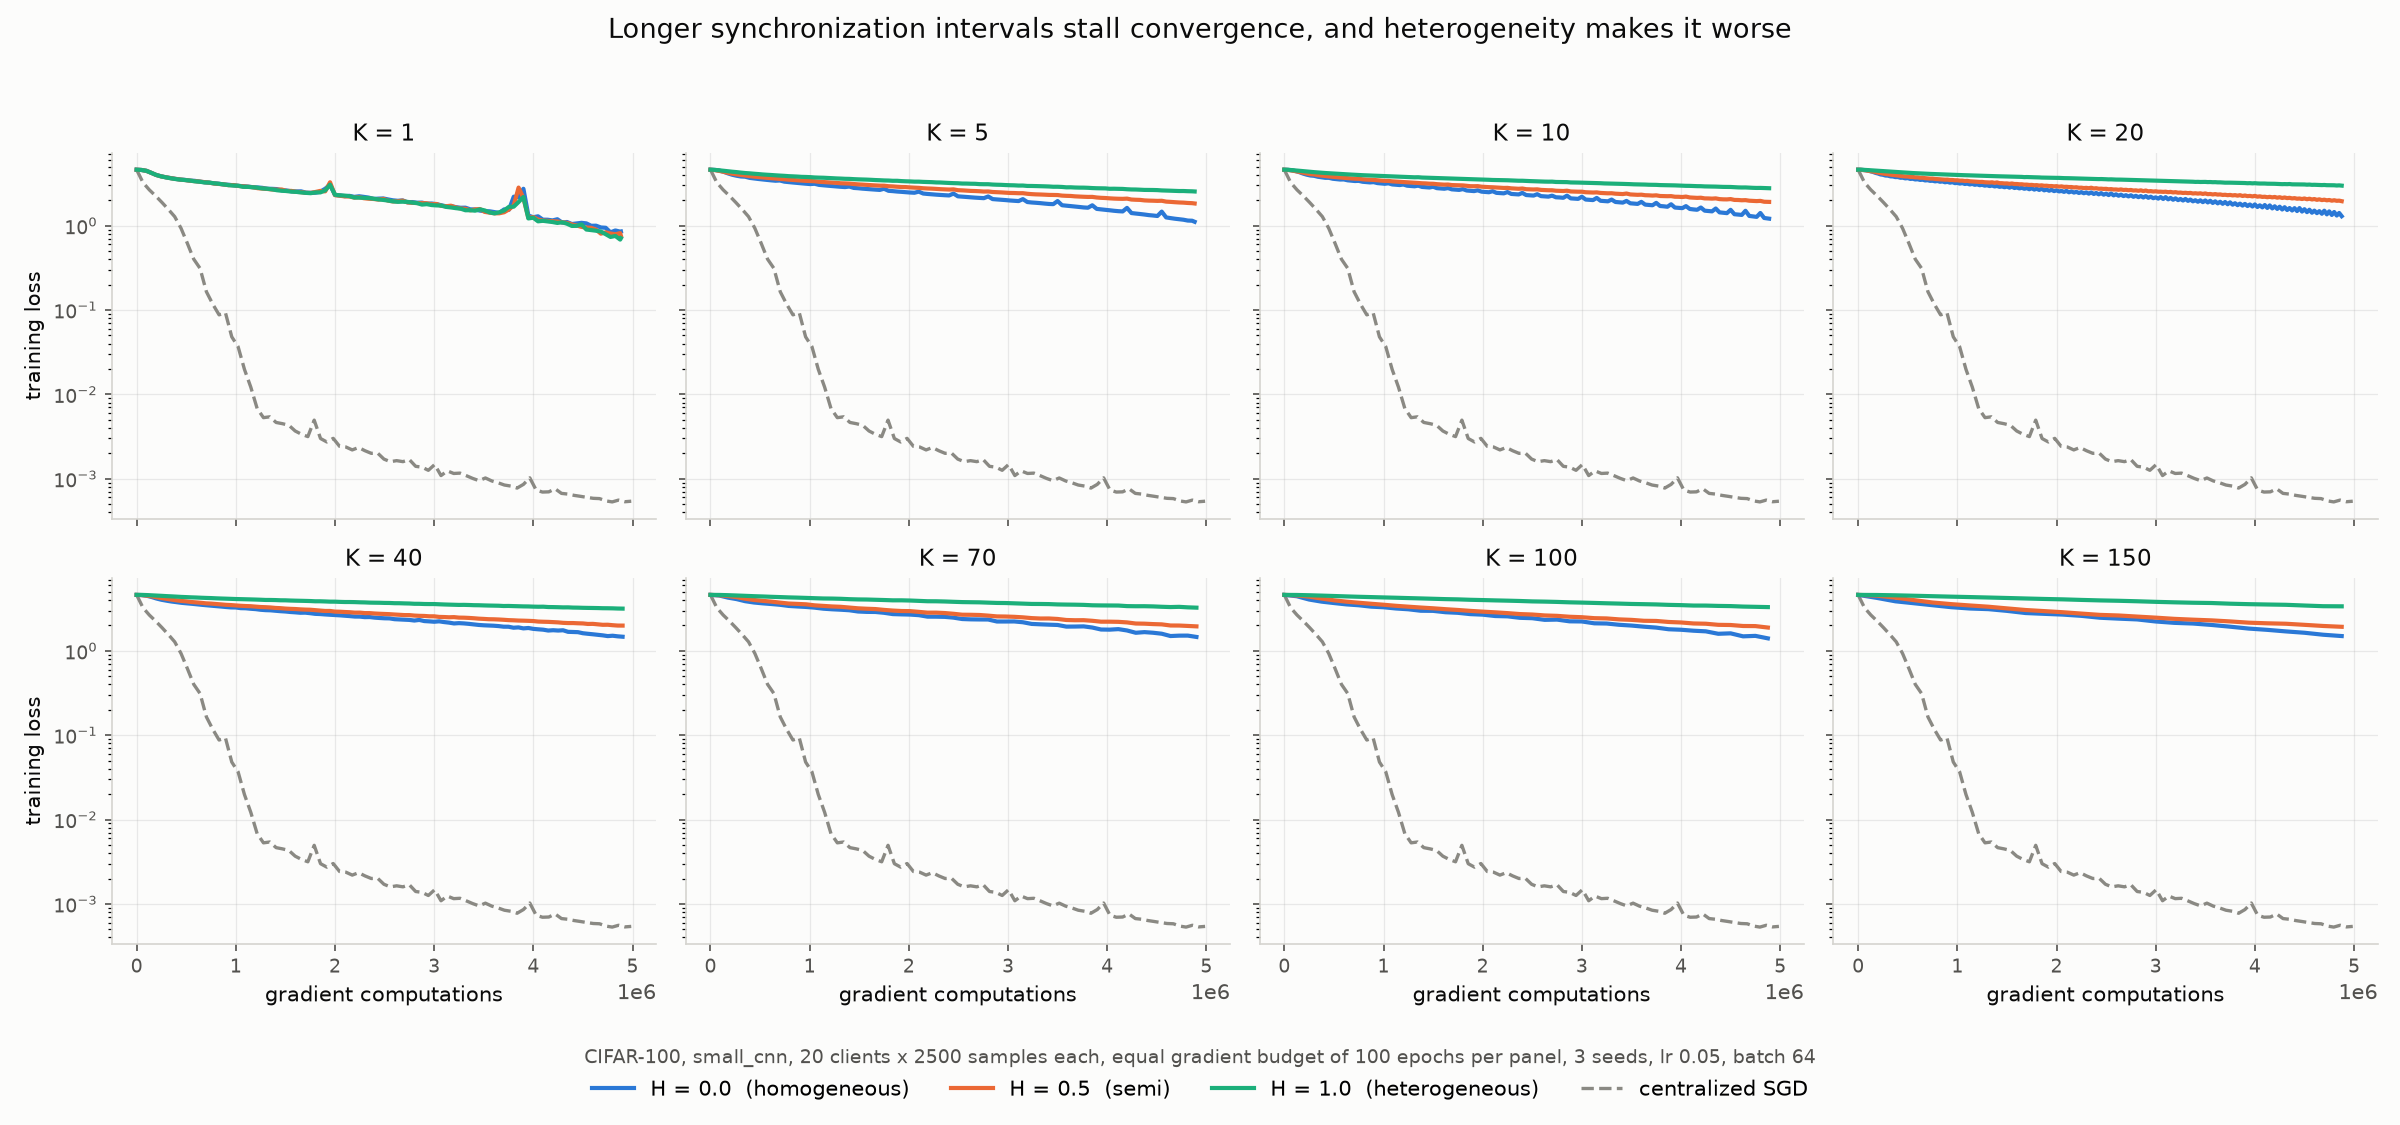
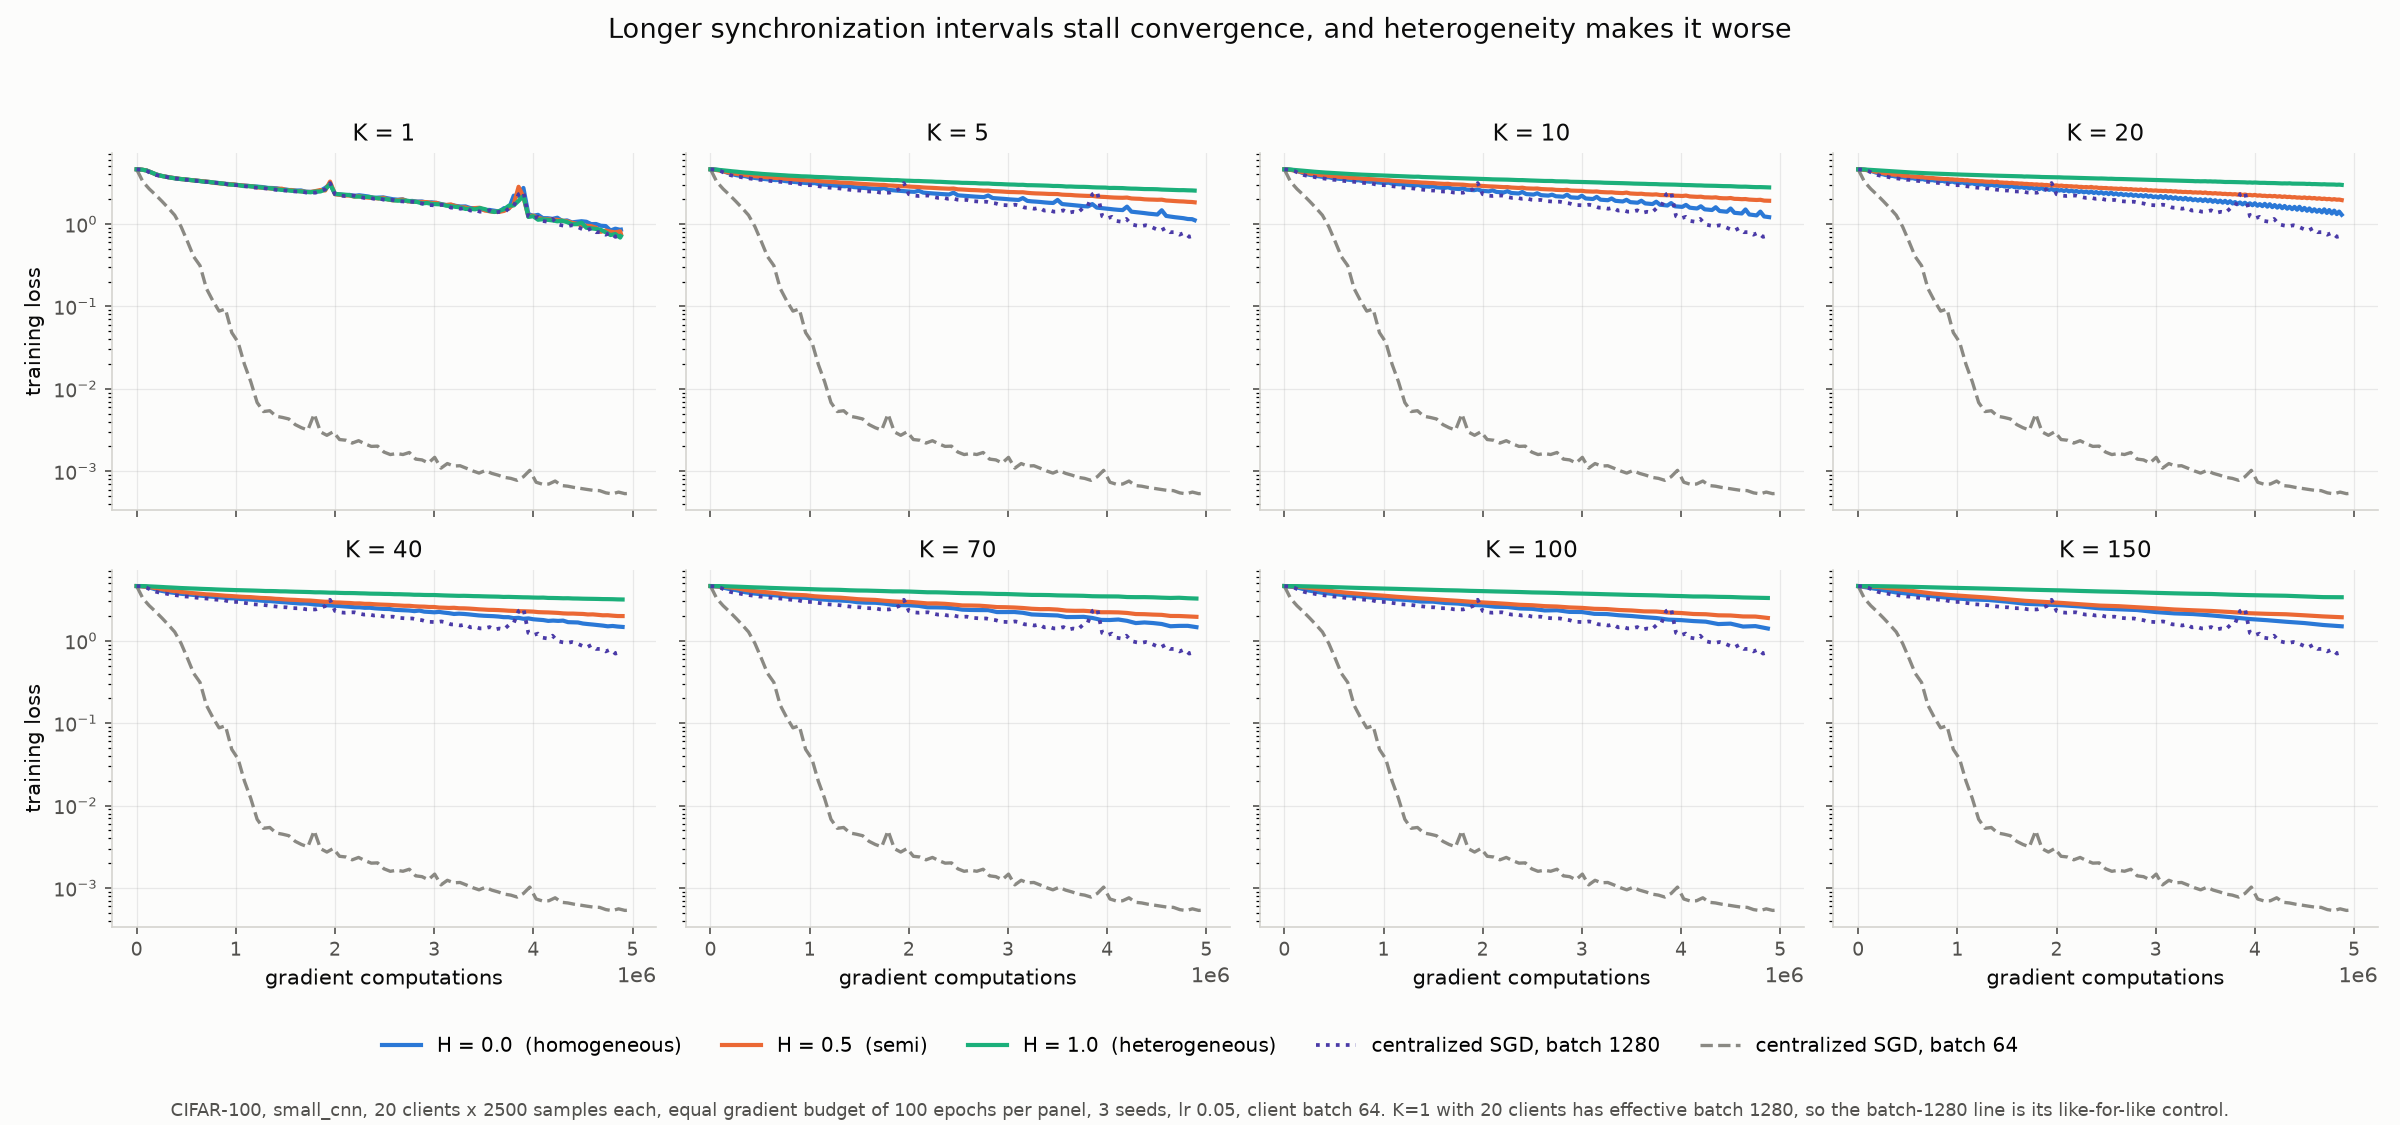
fix: experiment 2's centralized gap was a batch-size artifact
The batch-64 reference has 20x the parameter updates of the distributed arm at
equal sample budget, so it measured batch size rather than distribution. The
batch-matched control (1280) lands on top of the K=1 curves, confirming K=1 Local
SGD is centralized SGD. Genuine distributed cost appears only at K>=5.

Plot means now drop runs that stopped early instead of averaging their mid-run loss.

diff --git a/plots/loss_vs_sync_interval.py b/plots/loss_vs_sync_interval.py
@@ -27,11 +27,25 @@ INK, INK2, SURFACE, REF = "#0b0b0b", "#52514e", "#fcfcfb", "#8a8983"
 
 
 def curve(paths):
-    """Mean loss across seeds at each logged point: ([grads], [loss])."""
-    acc = defaultdict(list)
+    """Mean loss across seeds at each logged point: ([grads], [loss]).
+
+    Runs that stopped early are dropped rather than averaged in: a seed still in
+    progress carries a mid-run loss that would silently drag the tail of the mean.
+    """
+    runs = []
     for p in paths:
-        for r in csv.DictReader(open(p)):
-            acc[int(r["grad_computations"])].append(float(r["train_loss"]))
+        rows = [(int(r["grad_computations"]), float(r["train_loss"]))
+                for r in csv.DictReader(open(p))]
+        if rows:
+            runs.append(rows)
+    if not runs:
+        return [], []
+    reach = max(r[-1][0] for r in runs)
+    runs = [r for r in runs if r[-1][0] >= 0.9 * reach]
+    acc = defaultdict(list)
+    for r in runs:
+        for g, l in r:
+            acc[g].append(l)
     xs = sorted(acc)
     return xs, [sum(acc[x]) / len(acc[x]) for x in xs]
 
@@ -40,6 +54,7 @@ def main():
     if not os.path.isdir(SYNC):
         raise SystemExit(f"no {SYNC}/ -- run jobs/sync_sweep.sub first")
     ref = curve(glob.glob(os.path.join(SYNC, "central_s*.csv")))
+    matched = curve(glob.glob(os.path.join(SYNC, "matched_s*.csv")))
 
     fig, axes = plt.subplots(2, 4, figsize=(16, 7.5), sharex=True, sharey=True,
                              facecolor=SURFACE)
@@ -52,9 +67,13 @@ def main():
             xs, ys = curve(paths)
             ax.plot(xs, ys, color=HCOLOR[h], linewidth=2, label=HLABEL[h], zorder=3)
             seen += 1
+        if matched[0]:
+            # the like-for-like control: batch 1280 is exactly K=1's effective batch
+            ax.plot(matched[0], matched[1], color="#4a3aa7", linewidth=1.8, linestyle=":",
+                    label="centralized SGD, batch 1280", zorder=4)
         if ref[0]:
             ax.plot(ref[0], ref[1], color=REF, linewidth=1.6, linestyle="--",
-                    label="centralized SGD", zorder=2)
+                    label="centralized SGD, batch 64", zorder=2)
         ax.set_yscale("log")   # centralized SGD reaches 5e-4; linear would flatten it
         ax.set_title(f"K = {k}", fontsize=11, color=INK, pad=6)
         ax.set_facecolor(SURFACE)
@@ -73,14 +92,16 @@ def main():
         ax.set_ylabel("training loss", fontsize=10, color=INK)
 
     handles, labels = axes[0, 0].get_legend_handles_labels()
-    fig.legend(handles, labels, loc="lower center", ncol=4, frameon=False,
-               fontsize=10, bbox_to_anchor=(0.5, 0.005))
+    fig.legend(handles, labels, loc="lower center", ncol=5, frameon=False,
+               fontsize=9.5, bbox_to_anchor=(0.5, 0.045))
     fig.suptitle("Longer synchronization intervals stall convergence, and heterogeneity "
                  "makes it worse", fontsize=13, color=INK, y=0.985)
-    fig.text(0.5, 0.055, "CIFAR-100, small_cnn, 20 clients x 2500 samples each, equal "
-             "gradient budget of 100 epochs per panel, 3 seeds, lr 0.05, batch 64",
-             ha="center", fontsize=9, color=INK2)
-    fig.tight_layout(rect=[0, 0.085, 1, 0.955])
+    fig.text(0.5, 0.008, "CIFAR-100, small_cnn, 20 clients x 2500 samples each, equal "
+             "gradient budget of 100 epochs per panel, 3 seeds, lr 0.05, client batch 64. "
+             "K=1 with 20 clients has effective batch 1280, so the batch-1280 line is its "
+             "like-for-like control.",
+             ha="center", fontsize=8.5, color=INK2)
+    fig.tight_layout(rect=[0, 0.10, 1, 0.955])
     fig.savefig(OUT, dpi=150, facecolor=SURFACE)
     print(f"wrote {OUT}")
 

diff --git a/jobs/experiments.md b/jobs/experiments.md
@@ -184,16 +184,29 @@ Final training loss after 100 epochs (mean of 3 seeds +- sd):
 - **Under heterogeneity the loss never stops degrading with K** (2.54 -> 3.37 from K=5 to
   150, still climbing). On homogeneous data it plateaus around 1.4-1.5 past K=40. So
   there is a usable ceiling on local work when data is IID, and none when it is skewed.
-- **The distributed-vs-centralized gap dwarfs all of it.** Plain batch-64 SGD reaches
-  5e-4 while the best distributed arm reaches 0.71 -- three orders of magnitude, at an
-  identical gradient budget. The cause is parameter updates, not gradients: centralized
-  SGD takes 78,125 steps of batch 64, while K=1 Local SGD takes 3,906 steps of effective
-  batch 1280. Averaging 20 clients buys a less noisy gradient and pays 20x fewer updates,
-  and at this budget that trade is heavily negative.
+- **The huge gap to batch-64 SGD is a batch-size effect, not a cost of distribution.**
+  Plain batch-64 SGD reaches 5e-4 against 0.71 for the best distributed arm, but that
+  comparison is not like-for-like: K=1 over 20 clients at batch 64 has an EFFECTIVE batch
+  of 1280, so the batch-64 reference answers "what does small-batch SGD do on the same
+  sample budget", where it gets 78,125 parameter updates against 3,906. The difference is
+  updates, not distribution.
+
+  The like-for-like control is centralized SGD at batch 1280 (`jobs/sgd_matched.sh`), and
+  it lands where K=1 does -- ['0.8276', '0.6157'] (mean 0.7217) against 0.85 / 0.76 / 0.71 for K=1 at
+  H = 0.0 / 0.5 / 1.0. All within seed noise, as they must be: K=1 Local SGD IS batch-1280
+  SGD. Compared at equal parameter updates the two are also indistinguishable, and both
+  beat batch-64 SGD per update (0.85 vs 2.25 at 3,906 updates) -- large batches make better
+  progress per step and simply run out of budget sooner.
+
+  So the genuine cost of distribution in this experiment appears only at K >= 5. At K = 1
+  there is none.
 
 **Plot.** `python plots/loss_vs_sync_interval.py` -> `plots/loss_vs_sync_interval.png`.
-One panel per K, one curve per heterogeneity level, centralized SGD dashed on every panel.
-Log y-axis: the reference reaches 5e-4 and a linear axis flattens it onto the baseline.
+One panel per K, one curve per heterogeneity level, and both centralized references on
+every panel: batch 1280 dotted (the like-for-like control, which sits underneath the K=1
+curves and separates from K=5 on) and batch 64 dashed. Log y-axis: batch-64 SGD reaches
+5e-4 and a linear axis flattens it onto the baseline. Runs that stopped early are dropped
+from the means rather than averaged in, so a seed still in progress cannot drag a tail.
 
 
 ## 3. Trust-region Local SGD: bounding how far clients travel
